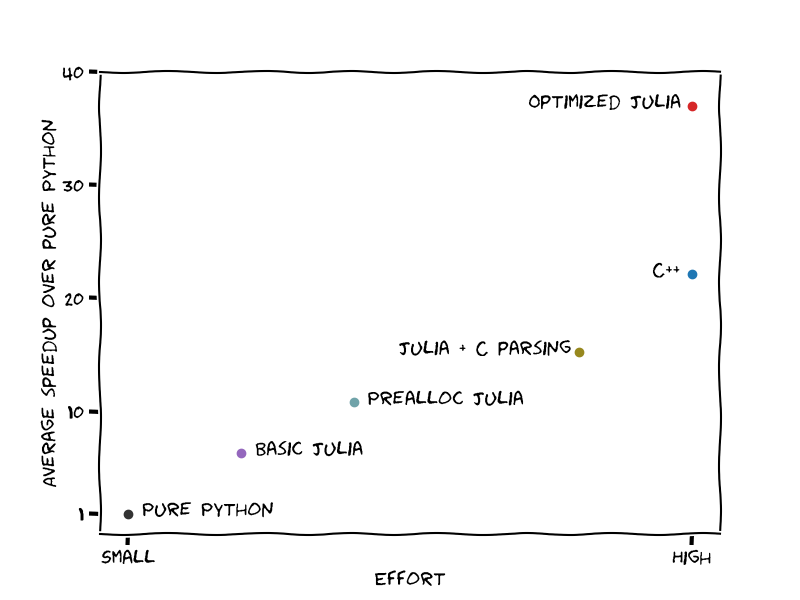
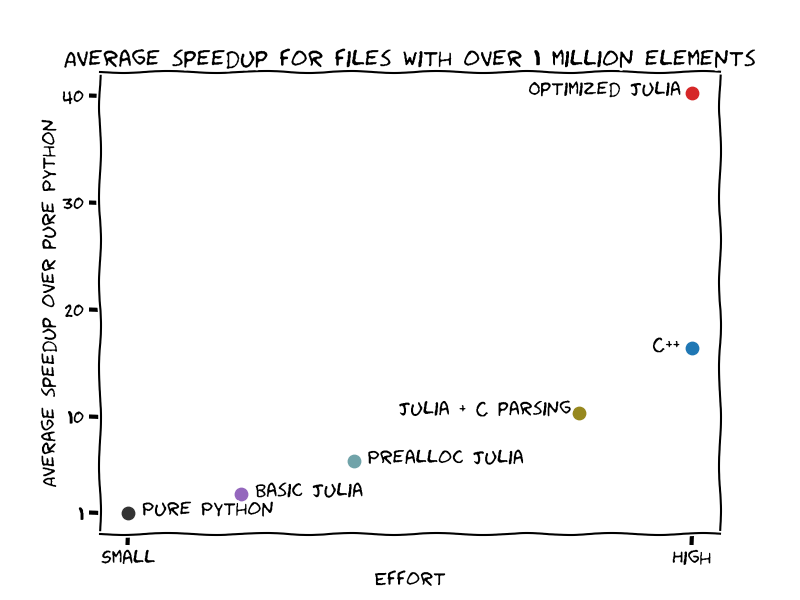
Update gain-over-effort for over 1e6 elements and print the info

diff --git a/post3/src/gain_over_effort.py b/post3/src/gain_over_effort.py
@@ -4,11 +4,11 @@ import matplotlib.pyplot as plt
 
 df, df_read, df_complete, df_rel_cpp, df_rel_opt = read_experiments_data('out/experiments.csv')
 labels = ['python', 'julia_basic', 'julia_prealloc', 'julia_c', 'cpp', 'julia_opt']
+idx = df['elements'] > 1e6
 gain = [
-    (df_complete['python'] / df_complete[x]).mean()
+    (df_complete['python'][idx] / df_complete[x][idx]).mean()
     for x in labels
 ]
-print(gain)
 
 x = [0, 0.2, 0.4, 0.8, 1, 1]
 xl = [xi + 0.025 for xi in x]
@@ -18,11 +18,36 @@ xl[-1] = x[-1] - 0.29
 with plt.xkcd():
     plt.figure(figsize=[8, 6])
     for i in range(0, len(x)):
-        plt.scatter(x[i], gain[i], c=spc_args[labels[i]]["color"])
+        plt.scatter(x[i], gain[i], c=spc_args[labels[i]]["color"], s=80)
         plt.annotate(spc_args[labels[i]]["label"], (xl[i], gain[i]))
     plt.xticks([0, 1], ['Small','High'])
     plt.yticks([1, 10, 20, 30, 40])
     plt.xlabel('Effort')
     plt.ylabel('Average speedup over pure Python')
+    plt.title('Average speedup for files with over 1 million elements')
     # plt.legend()
     plt.savefig("out/plots/gain-over-effort.png")
+
+
+threshold = [1e1, 1e6]
+
+for wrt in ['python', 'cpp']:
+    print(f'Speedup over {wrt}')
+    speedup = {x: [] for x in labels}
+    for th in threshold:
+        idx = df['elements'] > th
+        for x in labels:
+            gain = round((df_complete[wrt][idx] / df_complete[x][idx]).mean(), 2)
+            speedup[x].append(gain)
+
+    print('| ' + ' ' * 12 + ''.join([f'| {x:>14} ' for x in labels]) + ' |')
+    for i in range(0, len(threshold)):
+        th = threshold[i]
+        out = f'| {th:12}'
+        for x in labels:
+            v = speedup[x][i]
+            if v > 1:
+                out += f'| {v:14.2f} '
+            else:
+                out += f'| 1 / {1 / v:10.2f} '
+        print(out + ' |')
